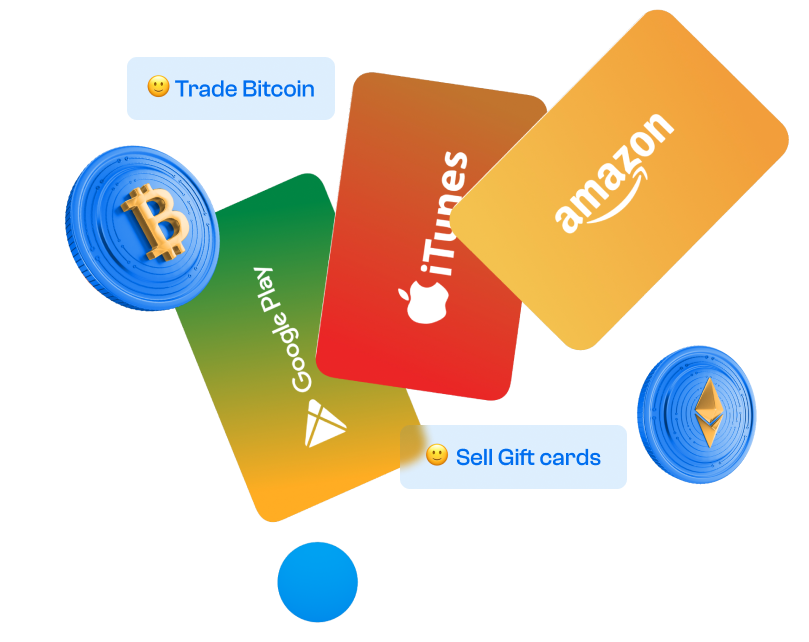
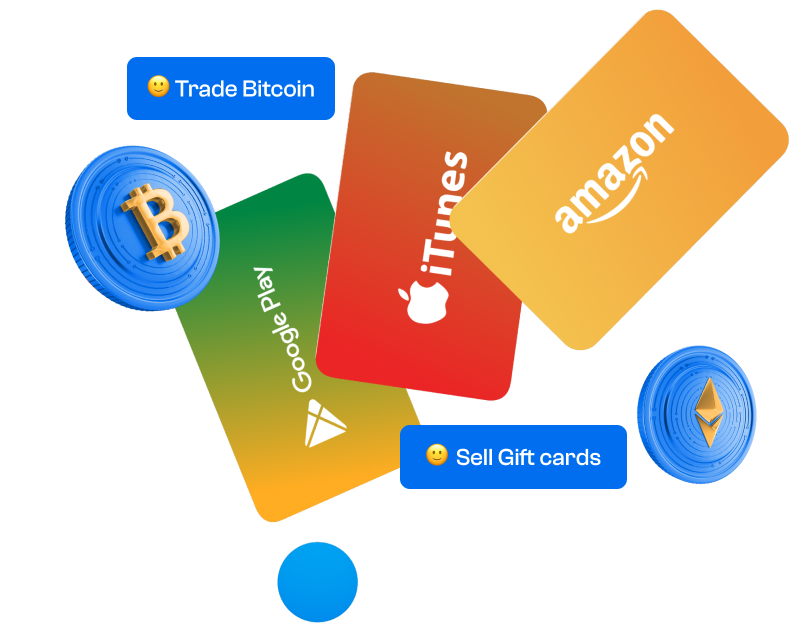
fix: hero section ui changed

Changed region(s): [[0.4944, 0.6542, 0.7726, 0.7788], [0.1545, 0.0623, 0.4326, 0.1869]]

diff --git a/src/pages/LandingPage/HeroSection/styles.js b/src/pages/LandingPage/HeroSection/styles.js
@@ -3,10 +3,13 @@ import styled from "styled-components";
 export const HeroSectionWrapper = styled.div`
   width: 100%;
   min-height: 100vh;
-  padding: 150px 0;
+  padding: 150px 0 100px 0;
+  background: #050bac;
+  box-sizing: border-box;
 
   .heroSection {
     max-width: 700px;
+    width: 90%;
     position: relative;
     .star {
       position: absolute;
@@ -19,19 +22,18 @@ export const HeroSectionWrapper = styled.div`
     h1,
     span {
       text-align: center;
-      position: relative;
+      color: #ffffff !important;
     }
 
     p {
       font-weight: 600;
-      color: #006eef;
       margin: 10px 0;
       font-size: 16px;
     }
 
     h1 {
       span {
-        color: #006eef;
+        color: #f2c94c !important;
       }
     }
 
@@ -44,7 +46,7 @@ export const HeroSectionWrapper = styled.div`
     }
   }
   @media (max-width: 750px) {
-    padding: 100px 0;
+    padding: 100px 0 50px 0;
     .heroSection {
       .star {
         position: absolute;

diff --git a/src/components/Layout/styles.js b/src/components/Layout/styles.js
@@ -12,13 +12,13 @@ export const LayoutWrap = styled.div`
   flex-direction: column;
 
   .layout__main {
-    padding-top: ${({ noPadding }) => (noPadding ? "0" : "180px")};
+    padding-top: ${({ noPadding }) => (noPadding ? "0" : "180px  0")};
     margin: 0;
     height: max-content;
     min-height: calc(100vh - 80px);
-    width: 90%;
+    width: ${({ noPadding }) => (noPadding ? "100%" : "90%")};
     @media (max-width: 600px) {
-      padding-top: ${({ noPadding }) => (noPadding ? "0" : "100px")};
+      padding-top: ${({ noPadding }) => (noPadding ? "0" : "100px 0")};
     }
   }
 `;
